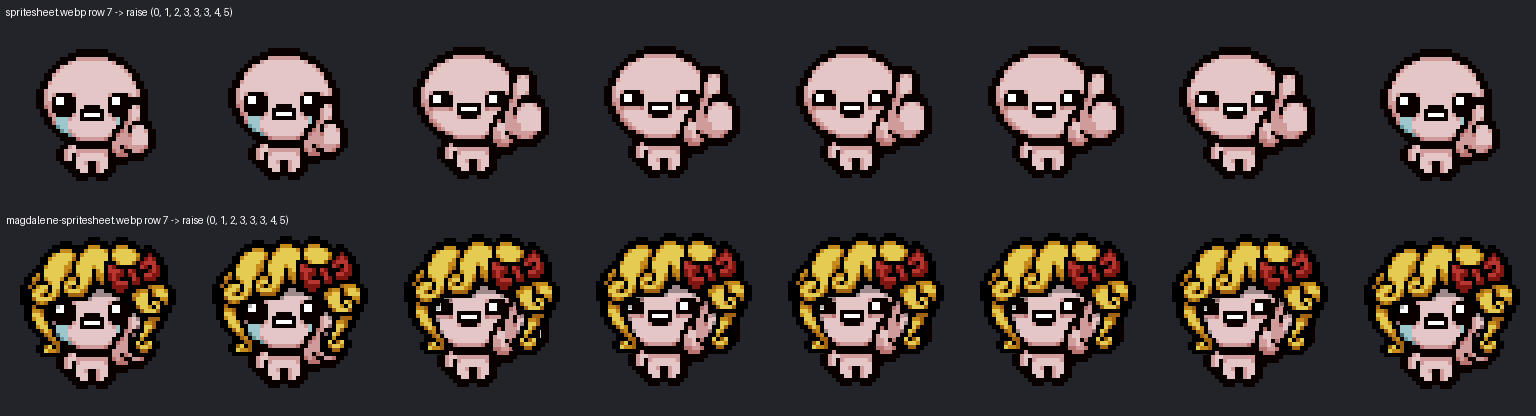
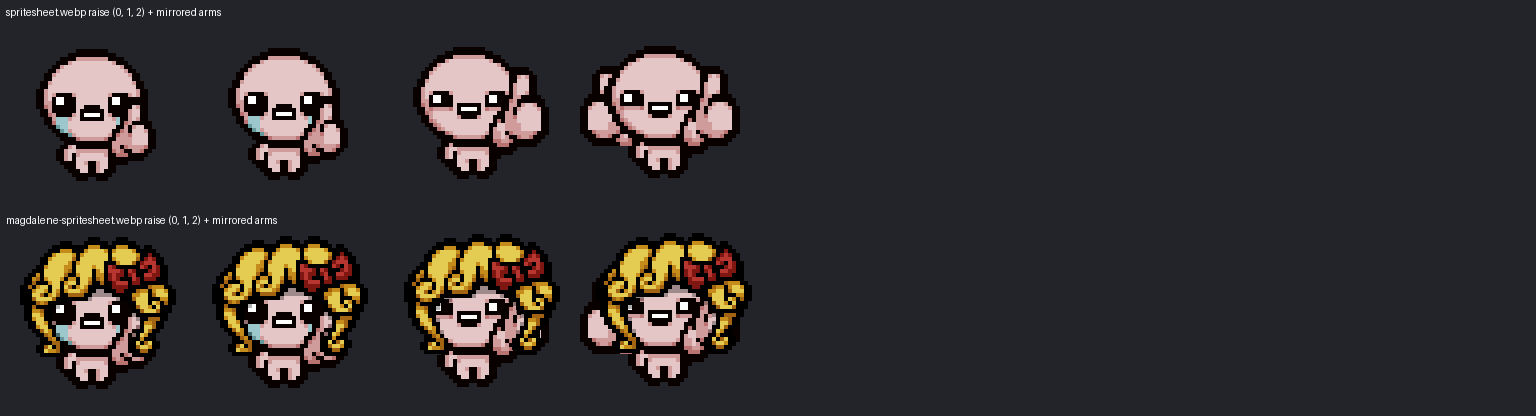
Raise both arms for the card draw animation

diff --git a/Sources/IsaacPetCore/Models.swift b/Sources/IsaacPetCore/Models.swift
@@ -195,7 +195,7 @@ public enum AnimationCatalog {
         .observe: AnimationSpec(row: 8, frameCount: 6, frameDuration: 0.15, loops: false),
         // The row is the thumbsUp source row this motion derives from; the raise
         // animation itself renders from the raising helper atlas with a held pose.
-        .drawCard: AnimationSpec(row: 7, frameCount: 8, frameDuration: 0.13, loops: false),
+        .drawCard: AnimationSpec(row: 7, frameCount: 4, frameDuration: 0.13, loops: false),
     ]
 
     public static let verticalWalkingSpecs: [VerticalWalkingDirection: AnimationSpec] = [

diff --git a/scripts/derive_raising_atlas.py b/scripts/derive_raising_atlas.py
@@ -1,11 +1,12 @@
 #!/usr/bin/env python3
 """Derive the card-drawing "raise" helper atlases from the approved thumbsUp row.
 
-抽卡动作 = 手臂上举展示卡牌。It reuses the approved thumbsUp motion (the only
-upward arm raise in the source atlas) as its pixels and only re-times it: the
-raised frames repeat so Isaac holds the card up before lowering the arm. Like
-the shooting and vertical-walking helpers this is a deterministic derivation of
-existing source art per role, not new art.
+抽卡动作 = 双手向上举起卡牌。The pixels come from the approved thumbsUp motion
+(the only upward arm raise in the source atlas) and are only re-timed and
+mirrored: the raised arm from the fully-lifted frame is mirrored about the
+character's symmetry axis and tucked behind the body, giving a both-arms-up
+pose without inventing new pixels. Like the shooting and vertical-walking
+helpers this is a deterministic derivation of existing source art per role.
 """
 
 from __future__ import annotations
@@ -21,12 +22,28 @@ CELL_WIDTH = 192
 CELL_HEIGHT = 208
 SOURCE_ROW = 7  # thumbsUp
 SOURCE_FRAMES = 6
-# down, rising, raised, hold x3, raised variant, lowering
-RAISE_SEQUENCE = (0, 1, 2, 3, 3, 3, 4, 5)
+# idle, arm rising, one arm up — then the mirrored both-arms pose (held during
+# the spin) is appended as the fourth column.
+RAISE_SEQUENCE = (0, 1, 2)
 ROLES = {
     "Resources/spritesheet.webp": "Resources/raising-atlas.webp",
     "Resources/Agents/magdalene-spritesheet.webp": "Resources/Agents/magdalene-raising-atlas.webp",
 }
+# The raised arm lives in this strip of the fully-lifted frame (frame 3);
+# everything left of it is face/body and must not leak into the mirror.
+ARM_STRIP = (112, 166, 46, 146)  # (x0, x1, y0, y1)
+# Mirror axis of the shared face art, located by scanning the Isaac head band
+# (score 0.986) and verified on the QA contact sheet. Both roles reuse the same
+# face registration, so one axis serves both; automatic detection is unreliable
+# under Magdalene's asymmetric hair.
+SYMMETRY_AXES = {
+    "Resources/spritesheet.webp": 83.5,
+    "Resources/Agents/magdalene-spritesheet.webp": 83.5,
+}
+
+
+def strip_box() -> tuple[int, int, int, int]:
+    return (ARM_STRIP[0], ARM_STRIP[2], ARM_STRIP[1], ARM_STRIP[3])
 
 
 def frame(atlas: Image.Image, column: int) -> Image.Image:
@@ -35,40 +52,101 @@ def frame(atlas: Image.Image, column: int) -> Image.Image:
     return atlas.crop((left, top, left + CELL_WIDTH, top + CELL_HEIGHT))
 
 
+def both_arms_frame(
+    lifted: Image.Image, base_lifted: Image.Image, axis: float
+) -> Image.Image:
+    """Add a mirrored copy of the raised arm on the other side of the head.
+
+    The arm pixels always come from the base (Isaac) sheet: role hair overlays
+    reach into the arm strip and must not be duplicated onto the other side.
+    The role's own frame composites on top, so the mirrored arm only shows
+    where the body is transparent — the arm reads as tucked behind the head.
+    """
+    strip = base_lifted.crop(strip_box())
+    strip_pixels = strip.load()
+    composite = lifted.copy()
+    for y in range(strip.height):
+        for x in range(strip.width):
+            pixel = strip_pixels[x, y]
+            if pixel[3] == 0:
+                continue
+            source_x = ARM_STRIP[0] + x
+            target_x = int(round(2 * axis - source_x))
+            if 0 <= target_x < CELL_WIDTH:
+                composite.putpixel((target_x, ARM_STRIP[2] + y), pixel)
+    composite.alpha_composite(lifted)
+    return composite
+
+
+def connected_components(image: Image.Image) -> int:
+    alpha = image.getchannel("A")
+    pixels = alpha.load()
+    seen: set[tuple[int, int]] = set()
+    components = 0
+    for y in range(image.height):
+        for x in range(image.width):
+            if pixels[x, y] == 0 or (x, y) in seen:
+                continue
+            components += 1
+            stack = [(x, y)]
+            seen.add((x, y))
+            while stack:
+                px, py = stack.pop()
+                for nx, ny in ((px - 1, py), (px + 1, py), (px, py - 1), (px, py + 1)):
+                    if 0 <= nx < image.width and 0 <= ny < image.height:
+                        if pixels[nx, ny] and (nx, ny) not in seen:
+                            seen.add((nx, ny))
+                            stack.append((nx, ny))
+    return components
+
+
 def derive(source_path: Path, output_path: Path) -> list[Image.Image]:
     atlas = Image.open(source_path).convert("RGBA")
     sources = [frame(atlas, column) for column in range(SOURCE_FRAMES)]
+    base_atlas = Image.open(ROOT / "Resources/spritesheet.webp").convert("RGBA")
+    base_sources = [frame(base_atlas, column) for column in range(SOURCE_FRAMES)]
     for column, cell in enumerate(sources):
         if not cell.getbbox():
             raise SystemExit(f"{source_path}: thumbsUp frame {column} is empty")
 
-    raising = Image.new("RGBA", (CELL_WIDTH * len(RAISE_SEQUENCE), CELL_HEIGHT), (0, 0, 0, 0))
-    cells = []
-    for column, source_column in enumerate(RAISE_SEQUENCE):
-        cell = sources[source_column]
-        cells.append(cell)
+    both_arms = both_arms_frame(sources[3], base_sources[3], SYMMETRY_AXES[str(source_path.relative_to(ROOT))])
+    if connected_components(both_arms) != connected_components(sources[3]):
+        raise SystemExit(f"{source_path}: mirrored arm introduced stray pixels")
+
+    derived: list[Image.Image | None] = [
+        sources[column] for column in RAISE_SEQUENCE
+    ] + [None] * (8 - len(RAISE_SEQUENCE))
+    derived[3] = both_arms
+
+    raising = Image.new("RGBA", (CELL_WIDTH * 8, CELL_HEIGHT), (0, 0, 0, 0))
+    cells: list[Image.Image] = []
+    for column in range(8):
+        cell = derived[column]
+        if cell is None:
+            continue
         raising.alpha_composite(cell, (column * CELL_WIDTH, 0))
+        cells.append(cell)
     output_path.parent.mkdir(parents=True, exist_ok=True)
     raising.save(output_path, lossless=True, quality=100, exact=True)
     return cells
 
 
 def contact_sheet(assets: dict[str, list[Image.Image]]) -> None:
+    from PIL import ImageDraw
+
     QA.mkdir(parents=True, exist_ok=True)
     roles = list(assets)
     sheet = Image.new(
         "RGBA",
-        (CELL_WIDTH * len(RAISE_SEQUENCE), CELL_HEIGHT * len(roles)),
+        (CELL_WIDTH * 8, CELL_HEIGHT * len(roles)),
         (35, 35, 42, 255),
     )
-    from PIL import ImageDraw
-
     draw = ImageDraw.Draw(sheet)
     for row_index, (name, cells) in enumerate(assets.items()):
         y = row_index * CELL_HEIGHT
         for column, cell in enumerate(cells):
             sheet.alpha_composite(cell, (column * CELL_WIDTH, y))
-        draw.text((6, y + 6), f"{name} row {SOURCE_ROW} -> raise {RAISE_SEQUENCE}", fill=(255, 255, 255, 255))
+        draw.text((6, y + 6), f"{name} raise {RAISE_SEQUENCE} + mirrored arms", fill=(255, 255, 255, 255))
     sheet.save(QA / "raising-atlas-contact-sheet.png")
 
 
@@ -77,6 +155,7 @@ def main() -> None:
     report = {
         "sourceRow": SOURCE_ROW,
         "sequence": list(RAISE_SEQUENCE),
+        "armStrip": list(ARM_STRIP),
         "cell": [CELL_WIDTH, CELL_HEIGHT],
         "roles": [],
     }
@@ -86,25 +165,33 @@ def main() -> None:
         cells = derive(source_path, output_path)
         assets[source_path.name] = cells
         saved = Image.open(output_path).convert("RGBA")
+        atlas = Image.open(source_path).convert("RGBA")
         role_report = {
             "source": source_name,
             "output": output_name,
             "size": list(saved.size),
+            "symmetryAxis": SYMMETRY_AXES[source_name],
             "cells": [
                 {
                     "index": index,
-                    "sourceColumn": RAISE_SEQUENCE[index],
+                    "sourceColumn": RAISE_SEQUENCE[index] if index < len(RAISE_SEQUENCE) else 3,
                     "bbox": list(cell.getbbox() or (0, 0, 0, 0)),
-                    "matches_source_frame": cell.tobytes() == frame(
-                        Image.open(source_path).convert("RGBA"), RAISE_SEQUENCE[index]
-                    ).tobytes(),
+                    "matches_source_frame": (
+                        cell.tobytes() == frame(atlas, RAISE_SEQUENCE[index]).tobytes()
+                        if index < len(RAISE_SEQUENCE)
+                        else False
+                    ),
                 }
                 for index, cell in enumerate(cells)
             ],
         }
         role_report["ok"] = (
-            saved.size == (CELL_WIDTH * len(RAISE_SEQUENCE), CELL_HEIGHT)
-            and all(item["matches_source_frame"] and item["bbox"] != [0, 0, 0, 0] for item in role_report["cells"])
+            saved.size == (CELL_WIDTH * 8, CELL_HEIGHT)
+            and all(item["bbox"] != [0, 0, 0, 0] for item in role_report["cells"])
+            and all(
+                item["matches_source_frame"]
+                for item in role_report["cells"][: len(RAISE_SEQUENCE)]
+            )
         )
         report["roles"].append(role_report)
 
